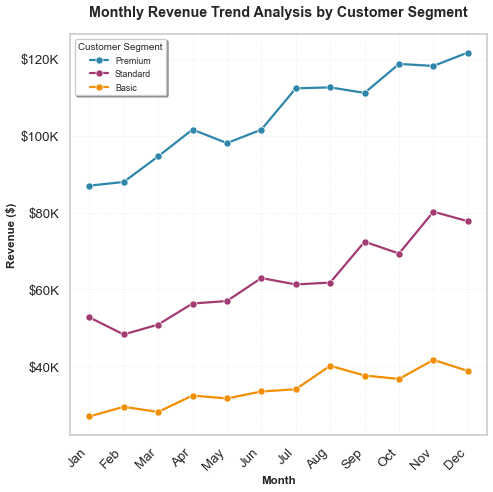
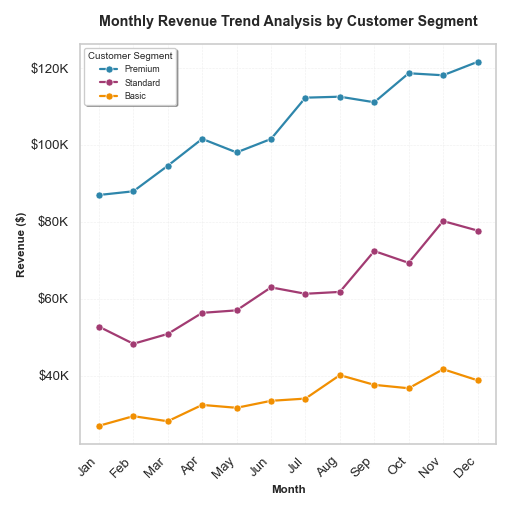
Fix chart dimensions to exactly 512x512 pixels

diff --git a/chart.py b/chart.py
@@ -69,7 +69,8 @@ plt.grid(True, alpha=0.3, linestyle='--', linewidth=0.7)
 plt.tight_layout()
 
 # Save the figure as PNG with exactly 512x512 pixels
-plt.savefig('chart.png', dpi=64, bbox_inches='tight')
+# Remove bbox_inches='tight' to maintain exact dimensions
+plt.savefig('chart.png', dpi=64)
 
 print("Chart successfully generated and saved as 'chart.png'")
 print(f"Image dimensions: 512x512 pixels")
